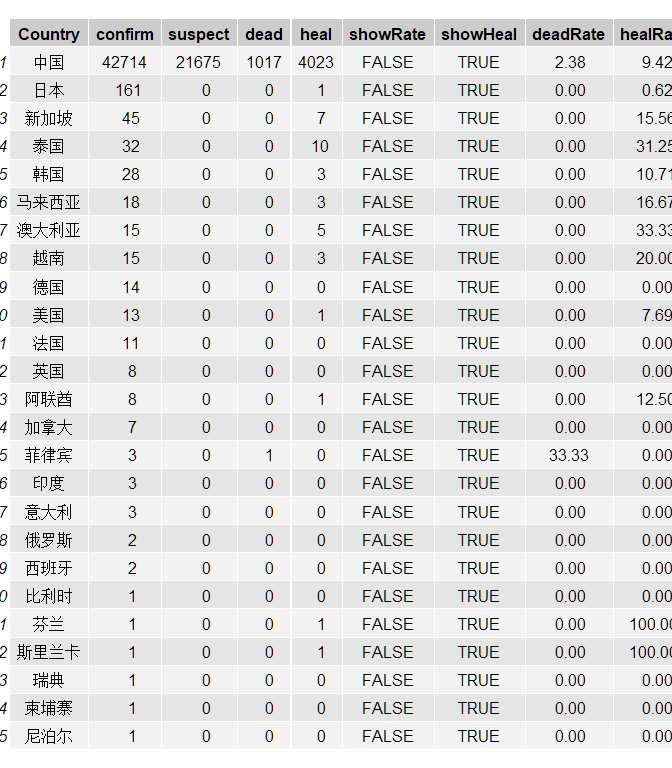
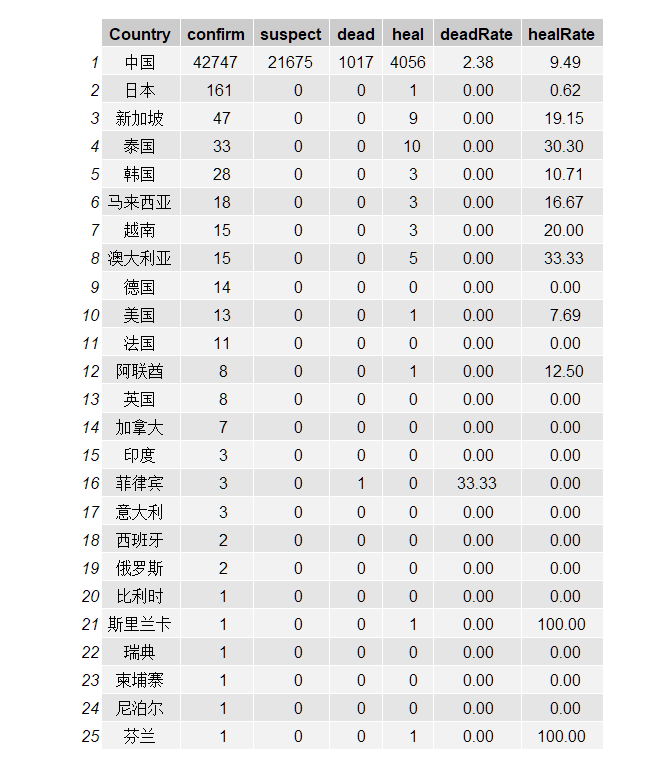
2/11 morning update.

diff --git a/Report_20200206.md b/Report_20200206.md
@@ -46,7 +46,7 @@ The last updated time (Beijing Time)is
 x$lastUpdateTime
 ```
 
-    ## [1] "2020-02-11 12:07:57"
+    ## [1] "2020-02-11 23:00:59"
 
 Now we present the total number of confirmed and suspected respectively.
 
@@ -133,7 +133,8 @@ We just look at the total number of cases for countries:
 ``` r
 library(grid)
 library(gridExtra)
-areatotal <- cbind(x$areaTree$name,x$areaTree$total)
+areatotal <- x$are$total %>% select(confirm, suspect, dead, heal,deadRate,healRate)
+areatotal <- cbind(x$areaTree$name,areatotal)
 names(areatotal)[1] <- "Country"
 grid.table(areatotal)
 ```
@@ -141,3 +142,25 @@ grid.table(areatotal)
 ![](Report_20200206_files/figure-gfm/unnamed-chunk-11-1.png)<!-- -->
 
 ## Cases by Chinese provinces are no longer provided by the package
+
+The death rate for Hubei province and non-Hubei province is provided.
+
+``` r
+deathrate<-x$dailyDeadRateHistory
+deathrate <- deathrate %>% mutate(hubeiRate=as.numeric(hubeiRate), notHubeiRate=as.numeric(notHubeiRate), countryRate=as.numeric(countryRate))
+deathrate <- deathrate %>% extract(date,c("month","day"), regex = "^(\\d+)\\.(\\d+)$",remove = FALSE) 
+deathrate <- deathrate %>% mutate(month = as.numeric(month), day = as.numeric(day))
+deathrate <- deathrate %>% mutate(date = make_date(2020,month,day))
+deathrate %>% ggplot()+geom_point(aes(date,hubeiRate,color="Hubei Rate"))+geom_point(aes(date,notHubeiRate,color="non-Hubei Rate"))+geom_point(aes(date,countryRate,color="country Rate"))+ ylab("Percentage(%)")
+```
+
+![](Report_20200206_files/figure-gfm/unnamed-chunk-12-1.png)<!-- -->
+
+``` r
+mytheme <- gridExtra::ttheme_default(core = list(fg_params=list(cex = 1.0)),colhead = list(fg_params=list(cex = 1.0)),rowhead = list(fg_params=list(cex = 1.0)))
+deathrate<-x$dailyDeadRateHistory
+names(deathrate) <- c("Date","hubei\nDead","hubei\nConfirm","country\nDead","country\nConfirm","hubei\nRate","notHubei\nRate","country\nRate")
+grid.table(deathrate,theme=mytheme)
+```
+
+![](Report_20200206_files/figure-gfm/unnamed-chunk-13-1.png)<!-- -->
